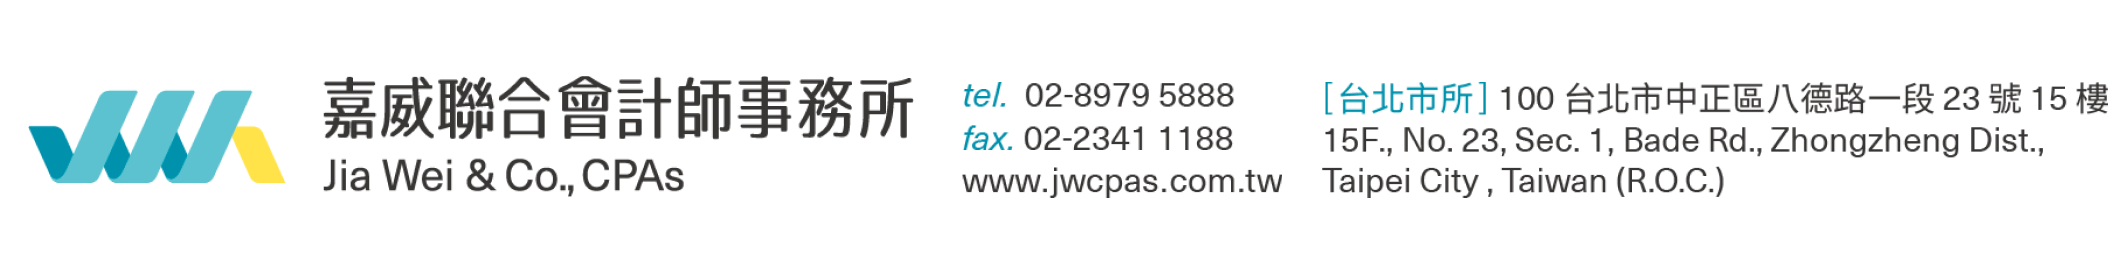
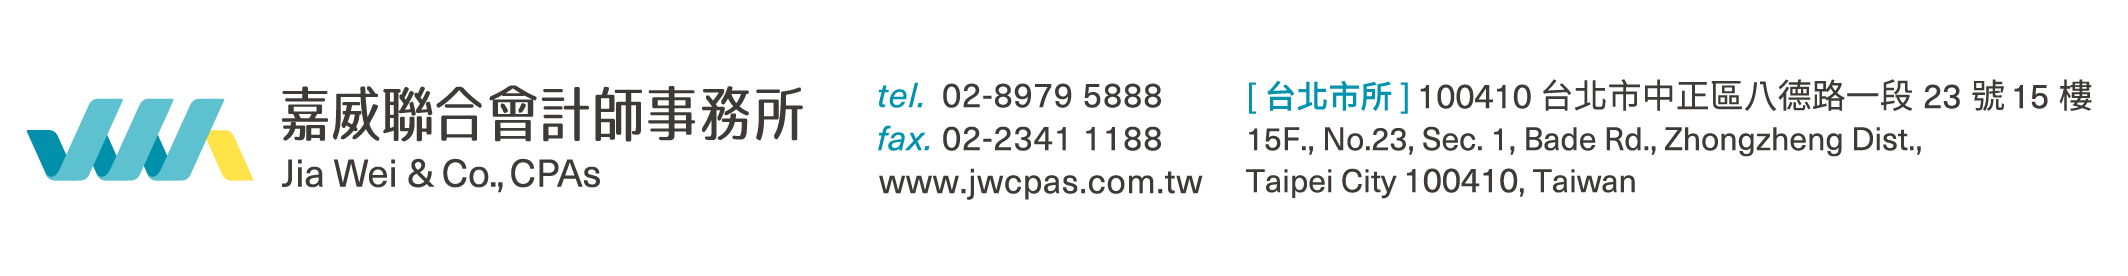
[UPDATE] organization quotation footer and header

Changed region(s): [[0.0, 0.2609, 0.9925, 0.6957], [0.4032, 0.6087, 0.8064, 0.7246]]

diff --git a/Package.swift b/Package.swift
@@ -25,6 +25,14 @@ let package = Package(
             ], resources: [
                 .copy("Resources/header/jw-quotation-header-01020314.png"),
                 .copy("Resources/footer/jw-quotation-footer-01020314.png"),
+                .copy("Resources/header/jw-quotation-header-41171816.png"),
+                .copy("Resources/footer/jw-quotation-footer-41171816.png"),
+                .copy("Resources/header/jw-quotation-header-47575385.png"),
+                .copy("Resources/footer/jw-quotation-footer-47575385.png"),
+                .copy("Resources/header/jw-quotation-header-47779732.png"),
+                .copy("Resources/footer/jw-quotation-footer-47779732.png"),
+                .copy("Resources/header/jw-quotation-header-82576039.png"),
+                .copy("Resources/footer/jw-quotation-footer-82576039.png"),
                 .copy("Resources/header/jw-quotation-header-88183980.png"),
                 .copy("Resources/footer/jw-quotation-footer-88183980.png")
               ]),
